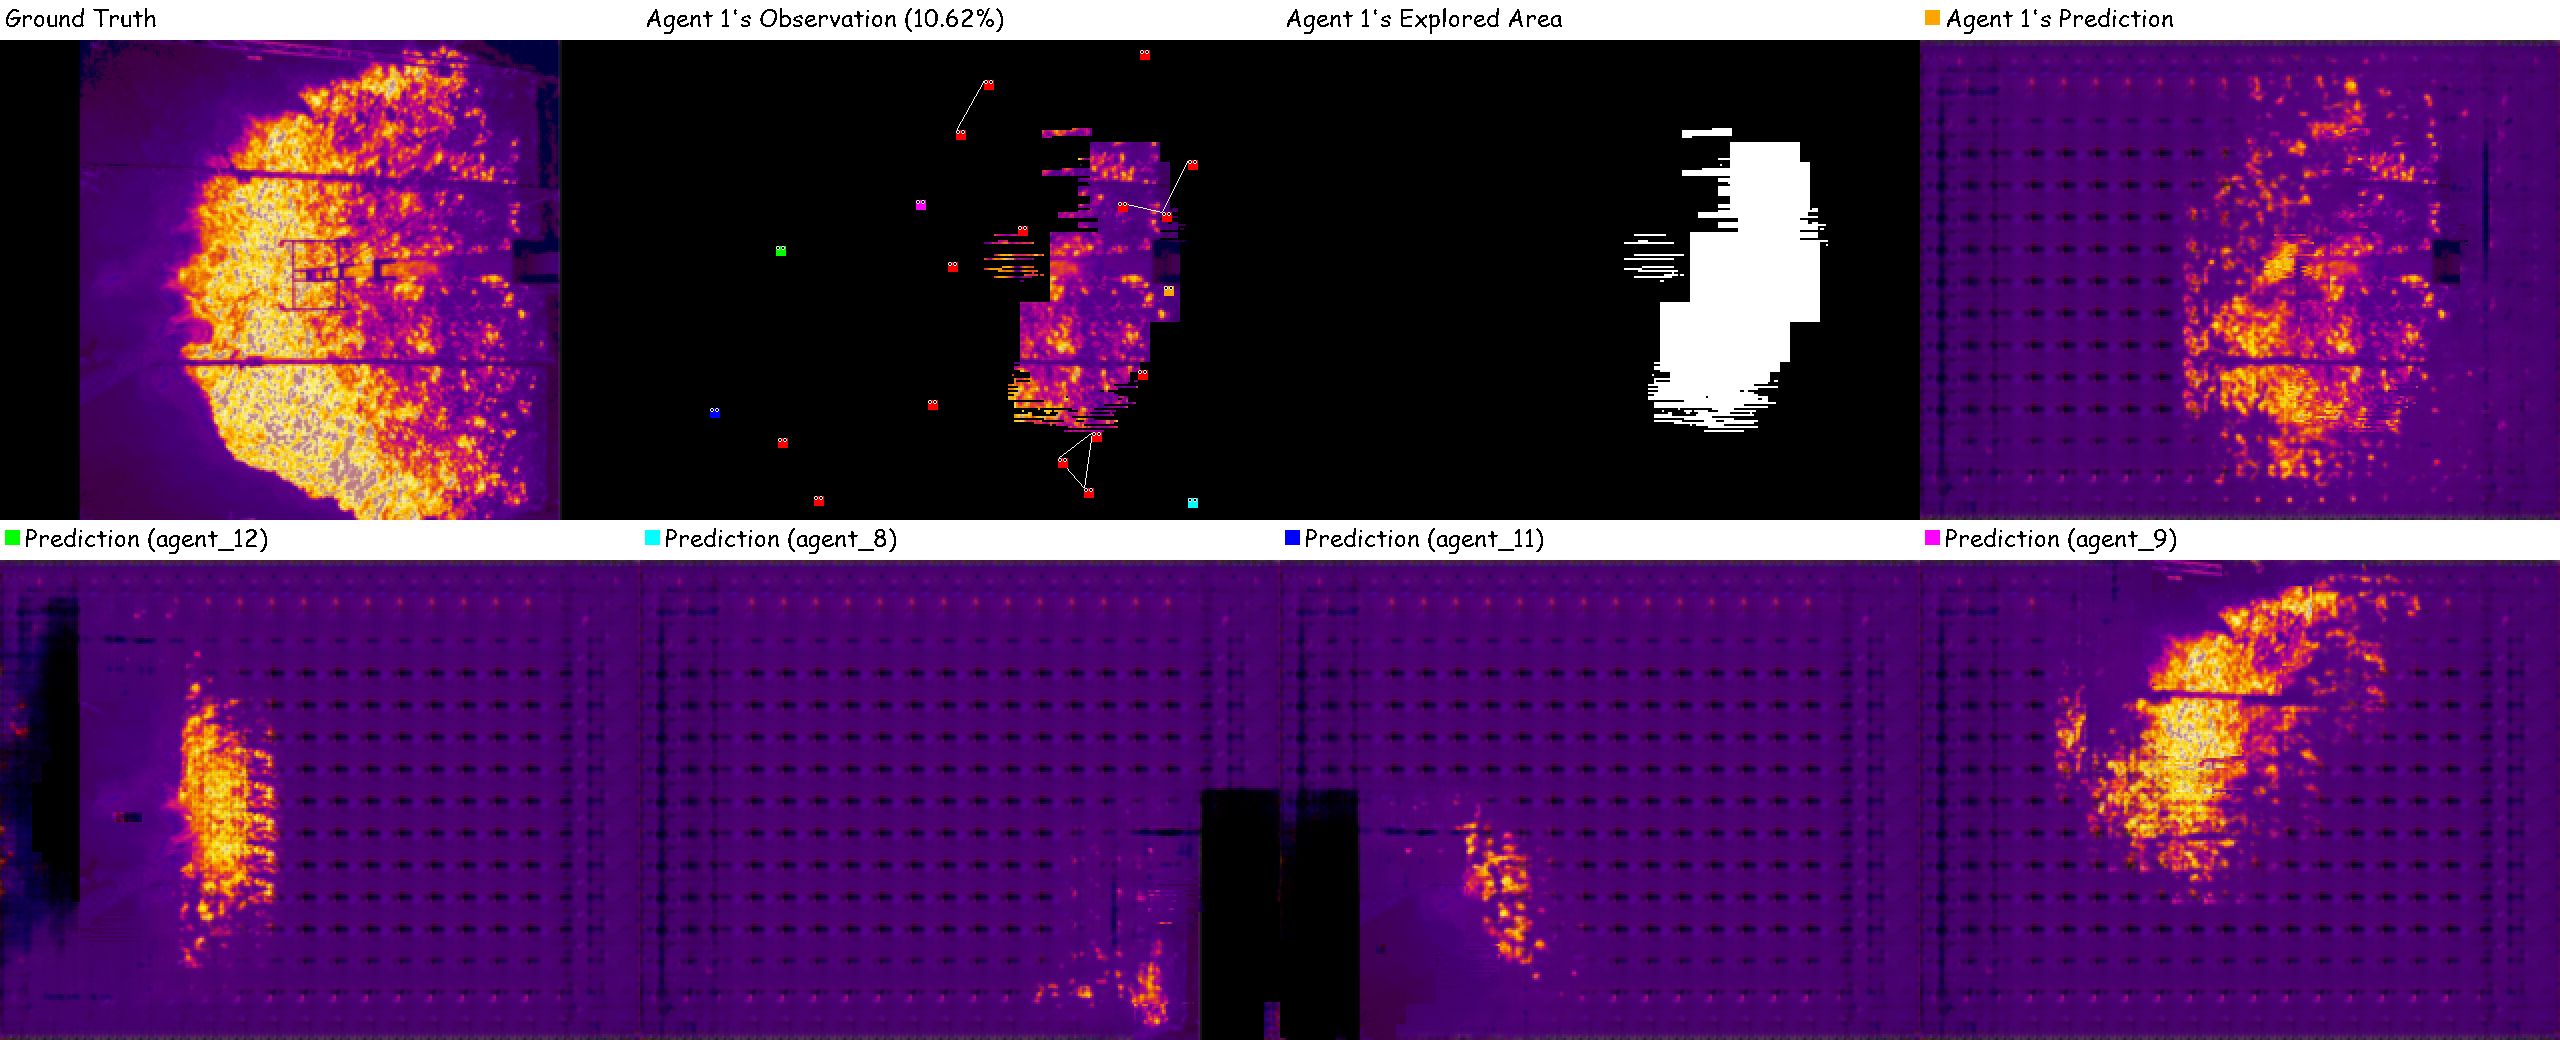
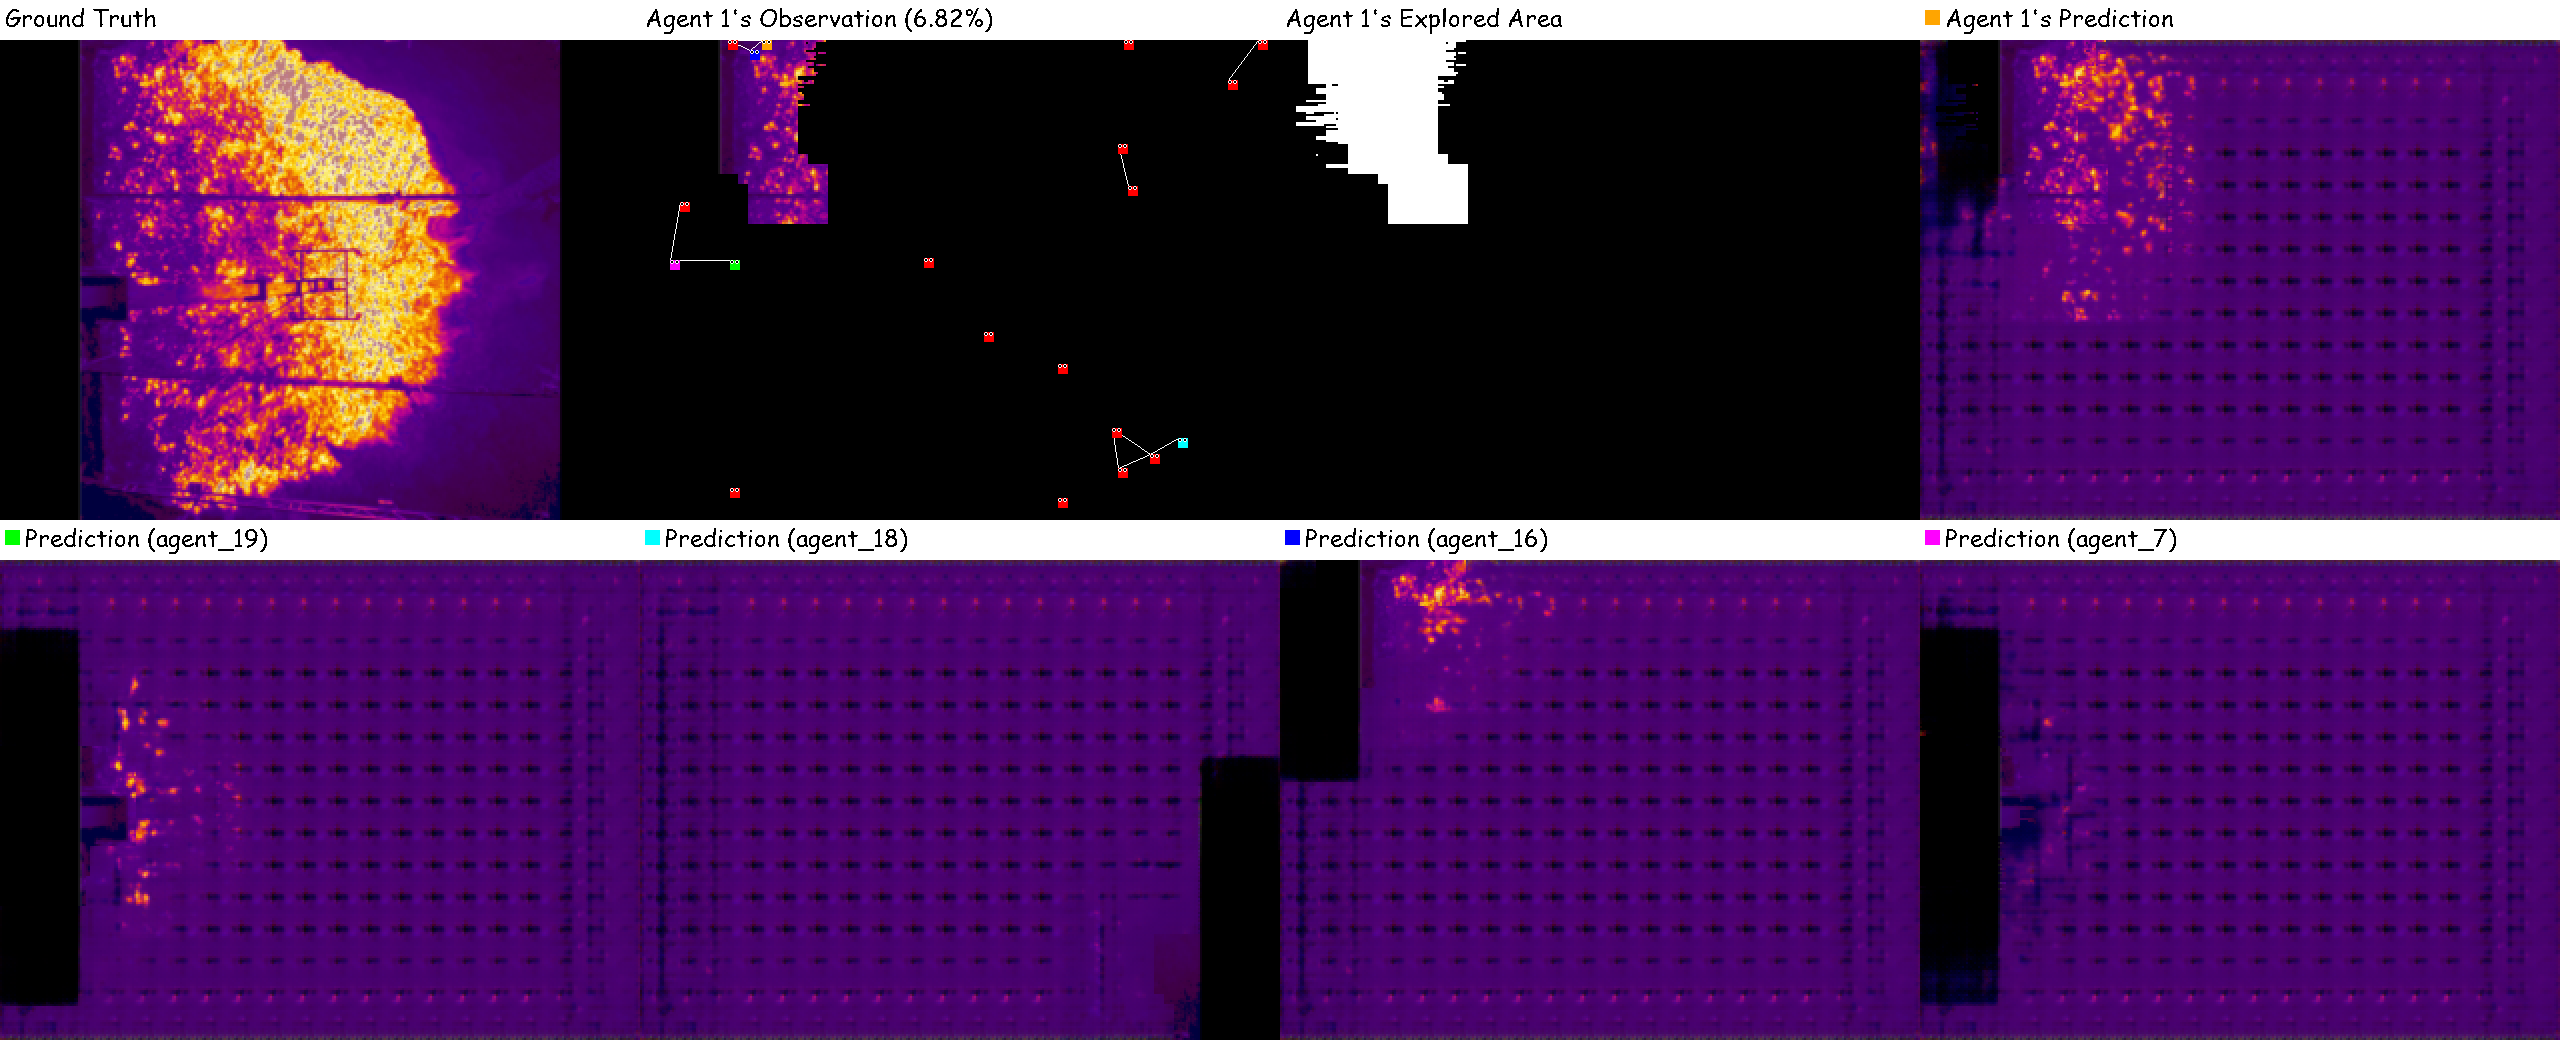
Implemented dynamic environment, calcutaing PSNR and SSIM over the entire image now. Ran test7 (dynamic environment).

diff --git a/7_environment_RGB/main.py b/7_environment_RGB/main.py
@@ -6,6 +6,7 @@ import random
 import pygame
 import numpy as np
 import torch
+import torchvision.transforms as T
 import itertools # For distance measurement between agents
 
 from models import ContextEncoder
@@ -155,6 +156,7 @@ def main():
             env_array = convert_img_to_(args.env_img_path_2, args.img_scaled_dim, output="nparray", rotation=random_angle)
             env_surface = nparray_to_surface(env_array, scale)
             env_tensor = convert_img_to_(args.env_img_path_2, args.img_scaled_dim, output="tensor", rotation=random_angle)
+            print("Environment changed!")
 
         text_surface = window_font.render("Ground Truth", False, (0, 0, 0))
         screen.blit(text_surface, (x_offset, 0))
@@ -169,6 +171,10 @@ def main():
         
         obs_array = agents["agent_1"].get_observation()
         obs_surface = nparray_to_surface(obs_array, scale)
+        # (H, W, C) to (C, H, W), use permute() for tensors and transpose() for NumPy arrays
+        obs_tensor = torch.from_numpy(obs_array).permute(2, 0, 1).float()
+        # Normalize to [-1.0, 1.0]
+        obs_tensor = (obs_tensor / 255.0 - 0.5) * 2.0
         screen.blit(obs_surface, (window_w * (1.0 / 4.0), y_offset))
 
         explored_map = agents["agent_1"].get_explored()
@@ -260,7 +266,8 @@ def main():
         
         mask_3ch = np.repeat(exp_array[np.newaxis, :, :], 3, axis=0)  # Derive a 3-channeled mask from 'exp_array'
         mask_tensor = torch.from_numpy(mask_3ch)  # Convert to tensor, shape -> (C, H, W)
-        masked_env_tensor = (env_tensor * mask_tensor).to(device)  # Masked environment
+        # masked_env_tensor = (env_tensor * mask_tensor).to(device)  # Masked environment for static case
+        masked_env_tensor = (obs_tensor * mask_tensor).to(device)
 
         with torch.no_grad():
             # In [-1, 1] range, shape -> (B, C, H, W)
@@ -268,18 +275,21 @@ def main():
 
         predicted_tensor = predicted_tensor.cpu().squeeze()  # Shape -> (C, H, W)
 
-        comp_tensor = env_tensor * mask_tensor + predicted_tensor * (1 - mask_tensor)
+        # comp_tensor = env_tensor * mask_tensor + predicted_tensor * (1 - mask_tensor) # For static environment
+        comp_tensor = obs_tensor * mask_tensor + predicted_tensor * (1 - mask_tensor)
         comp_array = comp_tensor.numpy()
 
         # print("comp_tensor shape:", comp_tensor.shape)
         # print("comp_array shape:", comp_array.shape)
         # print("env_tensor shape:", env_tensor.shape)
+        # print("obs_tensor shape:", obs_tensor.shape)
         # print("mask_tensor shape:", mask_tensor.shape)
         # print("predicted_tensor shape:", predicted_tensor.shape)
 
         # print("comp_tensor:", comp_tensor)
         # print("comp_array:", comp_array)
         # print("env_tensor:", env_tensor)
+        # print("obs_tensor shape:", obs_tensor)
         # print("mask_tensor:", mask_tensor)
         # print("predicted_tensor:", predicted_tensor)
         
@@ -303,15 +313,19 @@ def main():
             screen.blit(text_surface, (window_w * (idx / 4.0) + 2 * x_offset + legend_size, env_h * scale + y_offset))
 
             d_explored = agents[d_agent_key].get_explored()
+            d_observed_array = agents[d_agent_key].get_observation()
+            d_obs_tensor = torch.from_numpy(d_observed_array).permute(2, 0, 1).float()
+            d_obs_tensor = (d_obs_tensor / 255.0 - 0.5) * 2.0
             d_mask = np.repeat(d_explored[np.newaxis, :, :], 3, axis=0)
             d_mask_tensor = torch.from_numpy(d_mask)
-            d_masked_env_tensor = (env_tensor * d_mask_tensor).to(device)
+            # d_masked_env_tensor = (env_tensor * d_mask_tensor).to(device) # For static environment
+            d_masked_env_tensor = (d_obs_tensor * d_mask_tensor).to(device)
 
             with torch.no_grad():
                 d_predicted_tensor = model(d_masked_env_tensor.unsqueeze(0))
             d_predicted_tensor = d_predicted_tensor.cpu().squeeze()
 
-            d_comp_tensor = env_tensor * d_mask_tensor + d_predicted_tensor * (1 - d_mask_tensor)
+            d_comp_tensor = d_obs_tensor * d_mask_tensor + d_predicted_tensor * (1 - d_mask_tensor)
             d_comp_array = d_comp_tensor.numpy()
             d_comp_array = np.transpose(d_comp_array, (1, 2, 0))
             d_comp_array = ((d_comp_array + 1.0) / 2.0)
@@ -322,10 +336,9 @@ def main():
         if step % 10 == 0:
             comp_copy = comp_tensor.cpu().numpy().copy()
             env_copy = env_tensor.cpu().numpy().copy()
-            mask_copy = mask_tensor.cpu().numpy().copy()
 
-            PSNR_val = cal_PSNR(comp_copy, env_copy, mask_copy[0])
-            SSIM_val = cal_SSIM(comp_copy, env_copy, mask_copy[0])
+            PSNR_val = cal_PSNR(comp_copy, env_copy)
+            SSIM_val = cal_SSIM(comp_copy, env_copy)
 
             with open(csv_path, "a", newline="") as f:
                 writer = csv.writer(f)

diff --git a/7_environment_RGB/utils.py b/7_environment_RGB/utils.py
@@ -56,44 +56,17 @@ def nparray_to_surface(nparray, scale, grayscale=False):
     surface = pygame.surfarray.make_surface(np.transpose(array_scaled, (1, 0, 2)))
     return surface
 
-def cal_PSNR(composite_image, ground_truth, mask):
-    comp_inpainted = composite_image[:, mask==0]
-    gt_inpainted = ground_truth[:, mask==0]
-
-    data_range = gt_inpainted.max() - gt_inpainted.min()
-
-    MSE = np.mean((comp_inpainted - gt_inpainted)**2)
+def cal_PSNR(composite_image, ground_truth):
+    data_range = ground_truth.max() - ground_truth.min()
+    MSE = np.mean((composite_image - ground_truth)**2)
     if MSE < 1e-10:
         return 100.0
-    
     PSNR = 10 * np.log10((data_range)**2 / MSE)
     return PSNR
 
-def cal_SSIM(composite_image, ground_truth, mask, win_size=7):
-    coords = np.argwhere(mask==0)
-    if coords.size == 0:
-        return 1.0
-
-    x0, y0 = coords.min(axis=0)
-    x1, y1 = coords.max(axis=0) + 1
-    
-    comp_crop = composite_image[:, y0:y1, x0:x1]
-    gt_crop = ground_truth[:, y0:y1, x0:x1]
-    mask_crop = mask[y0:y1, x0:x1]
-
-    if comp_crop.size == 0:
-        return 1.0
-    
-    _, h_cropped, w_cropped = comp_crop.shape
-    if h_cropped < win_size or w_cropped < win_size:
-        return 1.0 
-
-    data_range = gt_crop.max() - gt_crop.min()
-
-    comp_crop[:, mask_crop==1] = 0.0
-    gt_crop[:, mask_crop==1] = 0.0
-
-    SSIM_value = SSIM(gt_crop, comp_crop, data_range=data_range, channel_axis=0, win_size=win_size)
+def cal_SSIM(composite_image, ground_truth, win_size=7):
+    data_range = ground_truth.max() - ground_truth.min()
+    SSIM_value = SSIM(ground_truth, composite_image, data_range=data_range, channel_axis=0, win_size=win_size)
     return SSIM_value
 
 def plot_from_csv(output_dir, csv_file="log.csv"):
